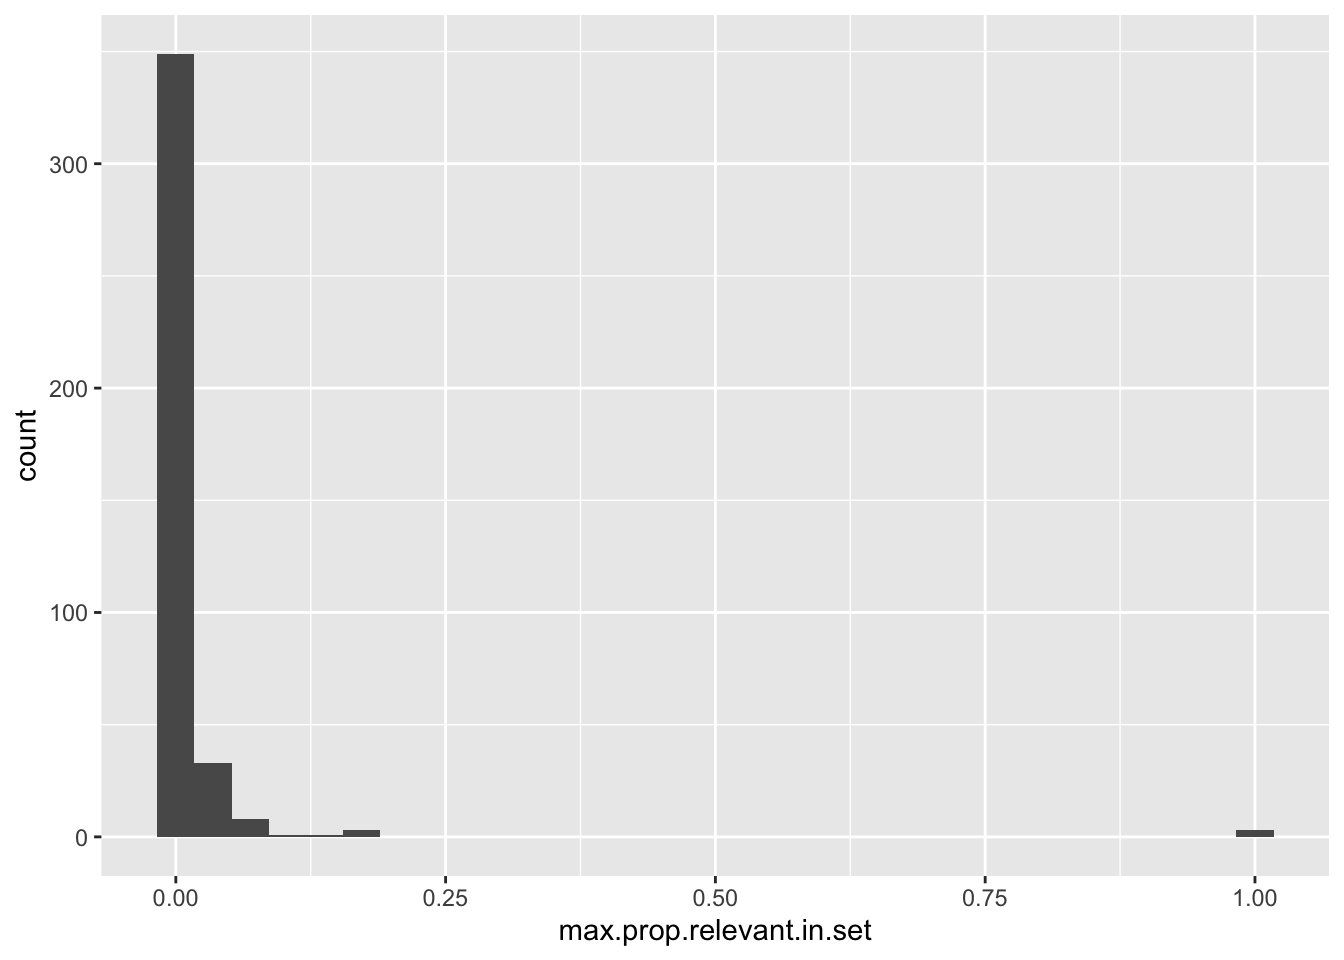
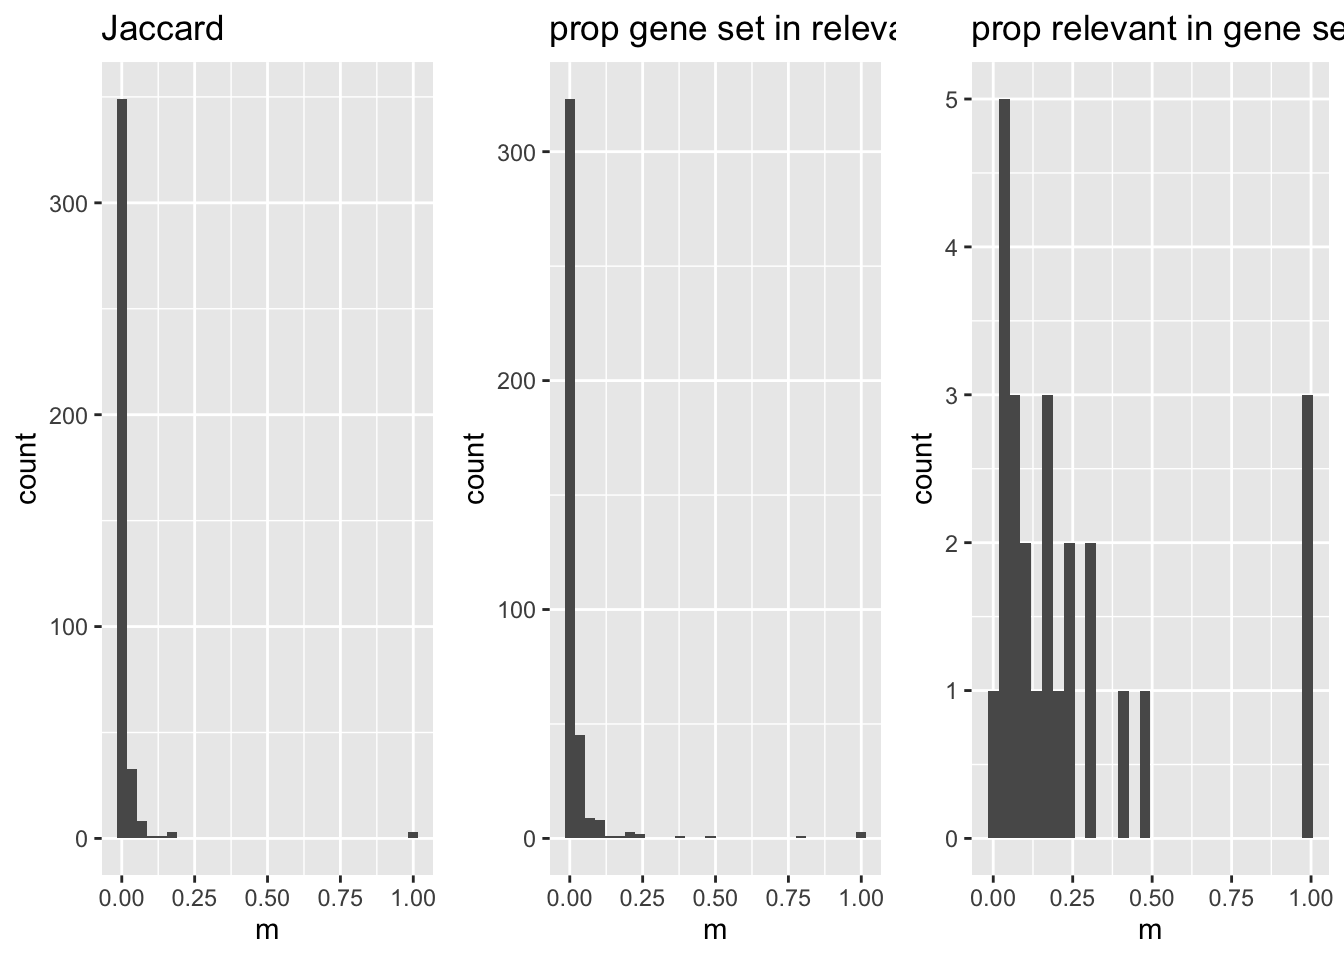
Build site.

diff --git a/docs/gseabenchmarkR_relevance.html b/docs/gseabenchmarkR_relevance.html
@@ -468,16 +468,16 @@ This reproducible <a href="http://rmarkdown.rstudio.com">R Markdown</a> analysis
 <div class="panel panel-default">
 <div class="panel-heading">
 <p class="panel-title">
-<a data-toggle="collapse" data-parent="#workflowr-checks" href="#strongRepositoryversionstrongahrefhttpsgithubcomkarltayeblogisticsusiegseatreeef91ec8eb82ddcfc108f3848e30c6baccaeaa296targetblankef91ec8a"> <span class="glyphicon glyphicon-ok text-success" aria-hidden="true"></span> <strong>Repository version:</strong> <a href="https://github.com/karltayeb/logistic_susie_gsea/tree/ef91ec8eb82ddcfc108f3848e30c6baccaeaa296" target="_blank">ef91ec8</a> </a>
+<a data-toggle="collapse" data-parent="#workflowr-checks" href="#strongRepositoryversionstrongahrefhttpsgithubcomkarltayeblogisticsusiegseatree234194cd7600622ab82ae8d5596de2ecd7f3298ctargetblank234194ca"> <span class="glyphicon glyphicon-ok text-success" aria-hidden="true"></span> <strong>Repository version:</strong> <a href="https://github.com/karltayeb/logistic_susie_gsea/tree/234194cd7600622ab82ae8d5596de2ecd7f3298c" target="_blank">234194c</a> </a>
 </p>
 </div>
[2 lines of base64/hex data omitted]
 <div class="panel-body">
 <p>
 Great! You are using Git for version control. Tracking code development and connecting the code version to the results is critical for reproducibility.
 </p>
 <p>
-The results in this page were generated with repository version <a href="https://github.com/karltayeb/logistic_susie_gsea/tree/ef91ec8eb82ddcfc108f3848e30c6baccaeaa296" target="_blank">ef91ec8</a>. See the <em>Past versions</em> tab to see a history of the changes made to the R Markdown and HTML files.
+The results in this page were generated with repository version <a href="https://github.com/karltayeb/logistic_susie_gsea/tree/234194cd7600622ab82ae8d5596de2ecd7f3298c" target="_blank">234194c</a>. See the <em>Past versions</em> tab to see a history of the changes made to the R Markdown and HTML files.
 </p>
 <p>
 Note that you need to be careful to ensure that all relevant files for the analysis have been committed to Git prior to generating the results (you can use <code>wflow_publish</code> or <code>wflow_git_commit</code>). workflowr only checks the R Markdown file, but you know if there are other scripts or data files that it depends on. Below is the status of the Git repository when the results were generated:
@@ -558,6 +558,40 @@ Message
 </tr>
 </thead>
 <tbody>
+<tr>
+<td>
+Rmd
+</td>
+<td>
+<a href="https://github.com/karltayeb/logistic_susie_gsea/blob/234194cd7600622ab82ae8d5596de2ecd7f3298c/analysis/gseabenchmarkR_relevance.Rmd" target="_blank">234194c</a>
+</td>
+<td>
+karltayeb
+</td>
+<td>
+2021-05-19
+</td>
+<td>
+wflow_publish(“analysis/gseabenchmarkR_relevance.Rmd”)
+</td>
+</tr>
+<tr>
+<td>
+html
+</td>
+<td>
+<a href="https://rawcdn.githack.com/karltayeb/logistic_susie_gsea/568ea4e6a2e6dcd987dce5e35e8ec74bf53e512c/docs/gseabenchmarkR_relevance.html" target="_blank">568ea4e</a>
+</td>
+<td>
+karltayeb
+</td>
+<td>
+2021-05-19
+</td>
+<td>
+Build site.
+</td>
+</tr>
 <tr>
 <td>
 Rmd
@@ -644,6 +678,43 @@ result %&gt;% mutate(rel = relevance/opt.relevance) %&gt;%
   geom_boxplot() + facet_wrap(vars(n_genes)) +
   theme(aspect=1.0, axis.text.x=element_blank())</code></pre>
 <p><img src="figure/gseabenchmarkR_relevance.Rmd/unnamed-chunk-2-1.png" width="672" style="display: block; margin: auto;" /></p>
+<p>
+<button type="button" class="btn btn-default btn-xs btn-workflowr btn-workflowr-fig" data-toggle="collapse" data-target="#fig-unnamed-chunk-2-1">
+Past versions of unnamed-chunk-2-1.png
+</button>
+</p>
+<div id="fig-unnamed-chunk-2-1" class="collapse">
+<div class="table-responsive">
+<table class="table table-condensed table-hover">
+<thead>
+<tr>
+<th>
+Version
+</th>
+<th>
+Author
+</th>
+<th>
+Date
+</th>
+</tr>
+</thead>
+<tbody>
+<tr>
+<td>
+<a href="https://github.com/karltayeb/logistic_susie_gsea/blob/568ea4e6a2e6dcd987dce5e35e8ec74bf53e512c/docs/figure/gseabenchmarkR_relevance.Rmd/unnamed-chunk-2-1.png" target="_blank">568ea4e</a>
+</td>
+<td>
+karltayeb
+</td>
+<td>
+2021-05-19
+</td>
+</tr>
+</tbody>
+</table>
+</div>
+</div>
 <p>We evaluate the relevance of elastic net, ORA, and logistic SuSiE when we use gene lists comprised of the top 100, 500, or 1000 DE genes for each of the 15 cancer datasets. Logistic SuSiE does better than the others, which indicates that the gene set ranking given by PIPs does a better job prioritizing relevant gene sets.</p>
 <div id="relevance-scores" class="section level3">
 <h3>Relevance Scores</h3>
@@ -675,6 +746,17 @@ Date
 </tr>
 </thead>
 <tbody>
+<tr>
+<td>
+<a href="https://github.com/karltayeb/logistic_susie_gsea/blob/568ea4e6a2e6dcd987dce5e35e8ec74bf53e512c/docs/figure/gseabenchmarkR_relevance.Rmd/unnamed-chunk-3-1.png" target="_blank">568ea4e</a>
+</td>
+<td>
+karltayeb
+</td>
+<td>
+2021-05-19
+</td>
+</tr>
 <tr>
 <td>
 <a href="https://github.com/karltayeb/logistic_susie_gsea/blob/a16415528e0cd5d4c25c770e30d6904cd744daae/docs/figure/gseabenchmarkR_relevance.Rmd/unnamed-chunk-3-1.png" target="_blank">a164155</a>
@@ -988,14 +1070,37 @@ karltayeb
 </table>
 </div>
 </div>
-<pre class="r"><code>logistic.susie.pip %&gt;% rowwise() %&gt;%
+<pre class="r"><code>par(mfrow=c(1, 3))
+
+p1 &lt;- logistic.susie.pip %&gt;% rowwise() %&gt;%
   mutate(
     pip.sets = list(names(which(pip &gt; 0.95))),
     relevant.sets = list(intersect(colnames(jaccard), rownames(gobp.relevance[[ID]]))),
-    max.prop.relevant.in.set = list(apply(as.matrix(jaccard[pip.sets, relevant.sets]), 1, max))
-  ) %&gt;% select(ID, max.prop.relevant.in.set) %&gt;% unnest(max.prop.relevant.in.set) %&gt;%
-  ggplot(aes(x=max.prop.relevant.in.set)) + geom_histogram()</code></pre>
-<pre><code>`stat_bin()` using `bins = 30`. Pick better value with `binwidth`.</code></pre>
+    m = list(apply(as.matrix(jaccard[pip.sets, relevant.sets]), 1, max))
+  ) %&gt;% select(ID, m) %&gt;% unnest(m) %&gt;%
+  ggplot(aes(x=m)) + geom_histogram() + ggtitle(&#39;Jaccard&#39;)
+
+p2 &lt;- logistic.susie.pip %&gt;% rowwise() %&gt;%
+  mutate(
+    pip.sets = list(names(which(pip &gt; 0.95))),
+    relevant.sets = list(intersect(colnames(asymmetric), rownames(gobp.relevance[[ID]]))),
+    m = list(apply(as.matrix(asymmetric[pip.sets, relevant.sets]), 1, max))
+  ) %&gt;% select(ID, m) %&gt;% unnest(m) %&gt;%
+  ggplot(aes(x=m)) + geom_histogram() + ggtitle(&#39;prop gene set in relevant&#39;)
+
+p3 &lt;- logistic.susie.pip %&gt;% rowwise() %&gt;%
+  mutate(
+    pip.sets = list(names(which(pip &gt; 0.95))),
+    relevant.sets = list(intersect(colnames(asymmetric), rownames(gobp.relevance[[ID]]))),
+    m = list(apply(as.matrix(asymmetric[relevant.sets, pip.sets]), 2, max))
+  ) %&gt;% select(ID, m) %&gt;% unnest(m) %&gt;%
+  ggplot(aes(x=m)) + geom_histogram() + ggtitle(&#39;prop relevant in gene set&#39;)
+
+library(cowplot)
+plot_grid(p1, p2, p3, ncol=3)</code></pre>
+<pre><code>`stat_bin()` using `bins = 30`. Pick better value with `binwidth`.
+`stat_bin()` using `bins = 30`. Pick better value with `binwidth`.
+`stat_bin()` using `bins = 30`. Pick better value with `binwidth`.</code></pre>
 <p><img src="figure/gseabenchmarkR_relevance.Rmd/unnamed-chunk-4-1.png" width="672" style="display: block; margin: auto;" /></p>
 <p>
 <button type="button" class="btn btn-default btn-xs btn-workflowr btn-workflowr-fig" data-toggle="collapse" data-target="#fig-unnamed-chunk-4-1">
@@ -1021,6 +1126,17 @@ Date
 <tbody>
 <tr>
 <td>
+<a href="https://github.com/karltayeb/logistic_susie_gsea/blob/568ea4e6a2e6dcd987dce5e35e8ec74bf53e512c/docs/figure/gseabenchmarkR_relevance.Rmd/unnamed-chunk-4-1.png" target="_blank">568ea4e</a>
+</td>
+<td>
+karltayeb
+</td>
+<td>
+2021-05-19
+</td>
+</tr>
+<tr>
+<td>
 <a href="https://github.com/karltayeb/logistic_susie_gsea/blob/a16415528e0cd5d4c25c770e30d6904cd744daae/docs/figure/gseabenchmarkR_relevance.Rmd/unnamed-chunk-4-1.png" target="_blank">a164155</a>
 </td>
 <td>
@@ -1034,9 +1150,12 @@ karltayeb
 </table>
 </div>
 </div>
-<p>Most of the gene sets with high PIPs do not have much to do with the relevant gene sets. The histgram shows <span class="math inline">\(\max_i\frac{|S \cap R_i|}{|S \cup R_i|}\)</span> where <span class="math inline">\(S\)</span> is the gene set with large pip and <span class="math inline">\(\{R_i\}\)</span> are the set of relevant gene sets. We would have liked to see that the</p>
+<p>Most of the gene sets with high PIPs do not have much to do with the relevant gene sets. The first histogram shows <span class="math inline">\(\max_i\frac{|S \cap R_i|}{|S \cup R_i|}\)</span> where <span class="math inline">\(S\)</span> is the gene set with large pip and <span class="math inline">\(\{R_i\}\)</span> are the set of relevant gene sets. We would have liked to see that the</p>
 <p>The gene sets with large pips have comparatively large overlap with the gene list compared to relevant gene sets. We notice that many of the DE genes participate in more than one gene set. Logistic SuSiE picked out gene sets that largely partition the gene list. That is, each gene in the list is represented by at most one gene set with large pip.</p>
 <p>You might think that SuSiE is picking more specific gene sets, surprisingly that is not the case. Below, we see that the gene sets with large PIP are larger than the relevant gene sets.</p>
+</div>
+<div id="gene-set-size-vs-proportion-of-genes-observed-in-gene-list" class="section level3">
+<h3>Gene set size vs proportion of genes observed in gene list</h3>
 <pre class="r"><code>logistic.susie.pip &lt;- logistic.susie.pip %&gt;% rowwise() %&gt;%
   mutate(
     pip.sets = list(names(which(pip &gt; 0.95))),
